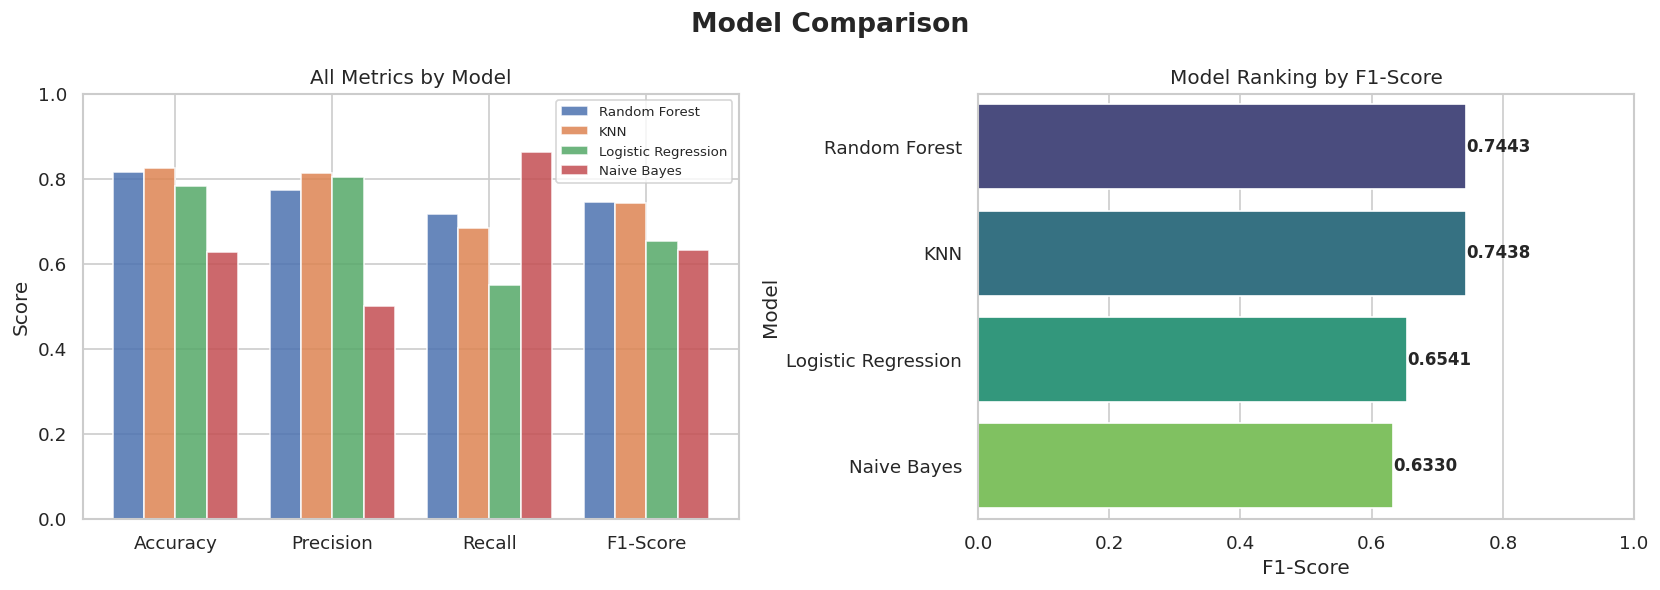
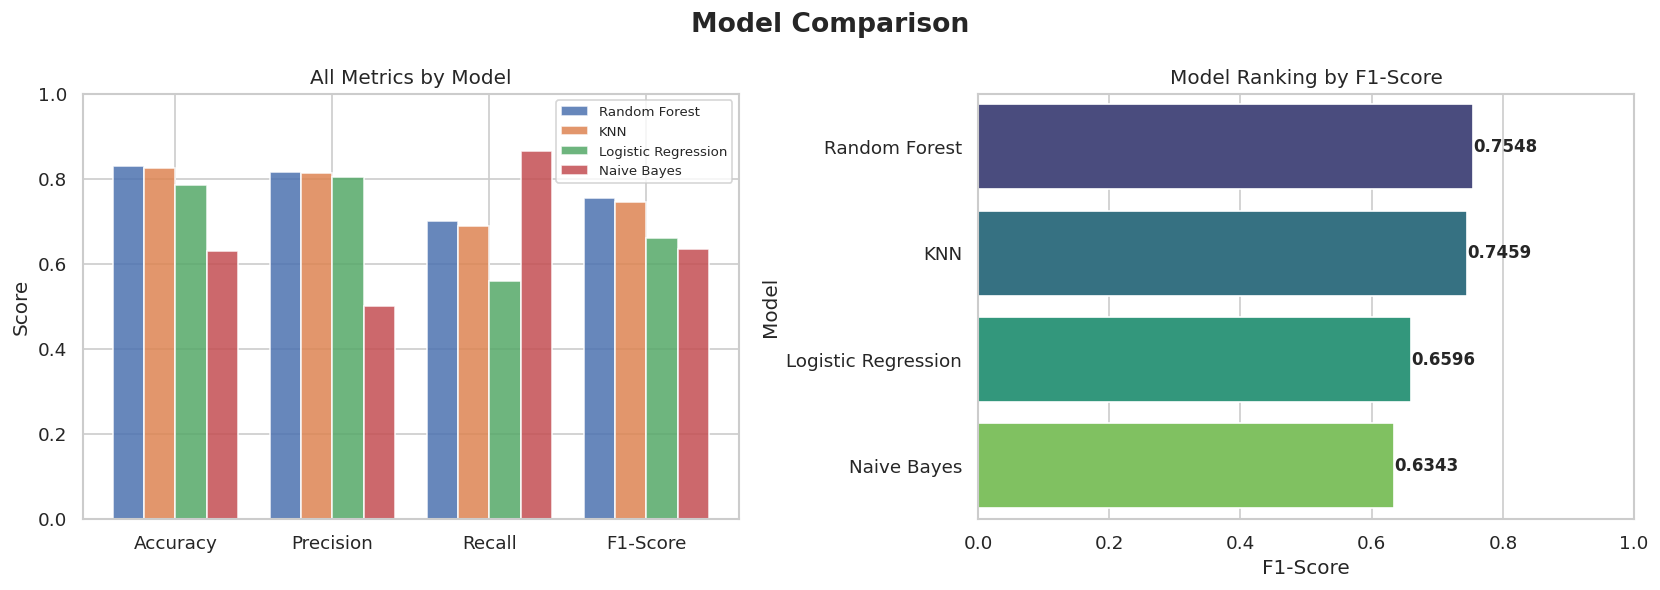
benerin sesuai hasil terbaru

diff --git a/app.py b/app.py
@@ -465,12 +465,12 @@ using data available at reservation time — so staff can intervene early.
         rej_col1, rej_col2 = st.columns(2)
         with rej_col1:
             with st.expander("❌ Logistic Regression"):
-                st.write("Assumes mostly linear relationships. Misses complex feature interactions. Weakest Recall (55%) in our tests.")
+                st.write("Assumes mostly linear relationships. Misses complex feature interactions. Weakest Recall (55.87%) in our tests.")
             with st.expander("❌ K-Nearest Neighbors (KNN)"):
                 st.write("Slow prediction on large datasets. Sensitive to scaling & noise. Poor interpretability for business use.")
         with rej_col2:
             with st.expander("❌ Naive Bayes"):
-                st.write("Highest Recall (86%) but Precision only ~50% — half of cancellation flags are false alarms, eroding staff trust.")
+                st.write("Highest Recall (86.59%) but Precision only ~50% — half of cancellation flags are false alarms, eroding staff trust.")
 
     # ── 5. EVALUATION ─────────────────────────────────────────────────────────
     elif chosen == steps[4]:
@@ -479,11 +479,12 @@ using data available at reservation time — so staff can intervene early.
 
         st.markdown("**Model Comparison**")
 
+        # ── Angka diupdate sesuai hasil ipynb ──
         models = [
-            {"name": "Random Forest", "recall": "71.64%", "precision": "77.46%", "f1": "0.744", "acc": "81.67%", "winner": True,  "note": "Best balance of precision & recall → selected for production"},
-            {"name": "KNN",           "recall": "68.48%", "precision": "81.39%", "f1": "0.744", "acc": "82.43%", "winner": False, "note": "Highest precision, but misses more cancellations"},
-            {"name": "Naive Bayes",   "recall": "86.39%", "precision": "49.95%", "f1": "0.633", "acc": "62.68%", "winner": False, "note": "Best recall, but ~50% false alarm rate"},
-            {"name": "Logistic Reg.", "recall": "55.09%", "precision": "80.48%", "f1": "0.654", "acc": "78.29%", "winner": False, "note": "Too conservative — misses nearly half of cancellations"},
+            {"name": "Random Forest", "recall": "70.17%", "precision": "81.65%", "f1": "0.7548", "acc": "83.10%", "winner": True,  "note": "Best balance of precision & recall → selected for production"},
+            {"name": "KNN",           "recall": "68.89%", "precision": "81.32%", "f1": "0.7459", "acc": "82.61%", "winner": False, "note": "High precision, but misses more cancellations than Random Forest"},
+            {"name": "Naive Bayes",   "recall": "86.59%", "precision": "50.04%", "f1": "0.6343", "acc": "63.00%", "winner": False, "note": "Best recall, but ~50% false alarm rate"},
+            {"name": "Logistic Reg.", "recall": "55.87%", "precision": "80.50%", "f1": "0.6596", "acc": "78.63%", "winner": False, "note": "Too conservative — misses nearly half of cancellations"},
         ]
 
         for m in models:
@@ -503,15 +504,15 @@ using data available at reservation time — so staff can intervene early.
         st.markdown("<br>", unsafe_allow_html=True)
         st.markdown("**Final Model Performance — Random Forest**")
         e1, e2, e3, e4 = st.columns(4)
-        e1.metric("Recall",    "71.64%")
-        e2.metric("Precision", "77.46%")
-        e3.metric("F1-Score",  "0.744")
-        e4.metric("Accuracy",  "81.67%")
+        e1.metric("Recall",    "70.17%")
+        e2.metric("Precision", "81.65%")
+        e3.metric("F1-Score",  "0.7548")
+        e4.metric("Accuracy",  "83.10%")
 
         st.markdown("<br>", unsafe_allow_html=True)
         st.info("""
-**Why Random Forest wins:** While Naive Bayes catches more cancellations (86% recall),
-its near-coin-flip precision (50%) means half its alerts are false alarms — eroding staff trust
+**Why Random Forest wins:** While Naive Bayes catches more cancellations (86.59% recall),
+its near-coin-flip precision (50.04%) means half its alerts are false alarms — eroding staff trust
 and wasting retention resources. Random Forest provides a reliable balance hotels can act on confidently.
 
 > 💡 If interventions later shift to low-cost automations (e.g., email-only), Naive Bayes becomes worth revisiting.
@@ -587,6 +588,6 @@ with tab_predict:
     st.markdown("---")
     st.markdown("<p style='text-align:center; color:#475569; font-size:0.85rem;'>Model performance when deployed</p>", unsafe_allow_html=True)
     p1, p2, p3 = st.columns(3)
-    p1.metric("Accuracy",  "81.67%")
-    p2.metric("F1-Score",  "0.744")
-    p3.metric("Recall",    "71.64%")
+    p1.metric("Accuracy",  "83.10%")
+    p2.metric("F1-Score",  "0.7548")
+    p3.metric("Recall",    "70.17%")
